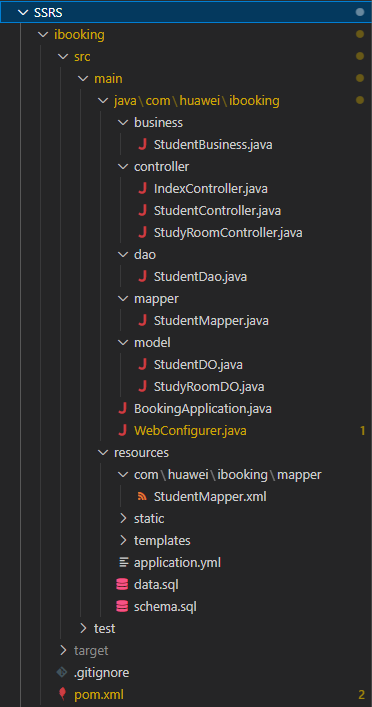
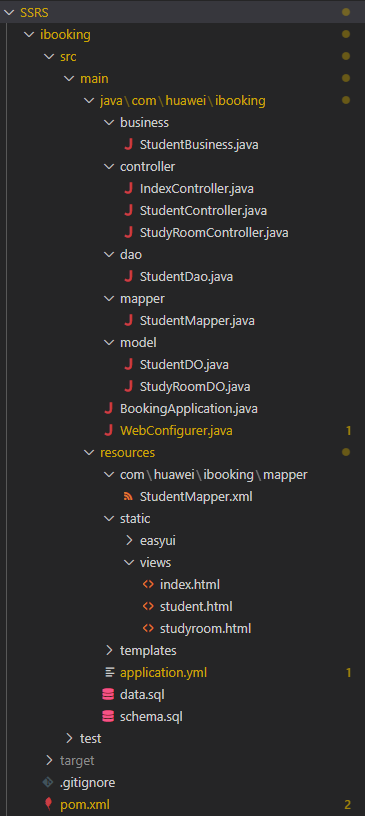
“添加内容”

Changed region(s): [[0.0, 0.0, 1.0, 1.0], [0.9342, 0.529, 0.9644, 0.5601]]

diff --git a/ibooking/src/main/resources/static/views/student.html b/ibooking/src/main/resources/static/views/student.html
@@ -36,8 +36,7 @@
             plain="true">添加</a>
         <a class="easyui-linkbutton" href="javascript:void(0)" iconCls="icon-edit" onclick="editStudent()"
             plain="true">修改</a>
-        <a class="easyui-linkbutton" href="javascript:void(0)" iconCls="icon-remove"
-            onclick="destroyStudent()"
+        <a class="easyui-linkbutton" href="javascript:void(0)" iconCls="icon-remove" onclick="destroyStudent()"
             plain="true">删除</a>
     </div>
 

diff --git a/README.md b/README.md
@@ -13,11 +13,11 @@
 
 &emsp;&emsp;&emsp;&emsp;&emsp;&emsp;|-com\huawei\ibooking
 
-&emsp;&emsp;&emsp;&emsp;&emsp;&emsp;&emsp;&emsp;|-business
+&emsp;&emsp;&emsp;&emsp;&emsp;&emsp;&emsp;&emsp;|-business  // 具体的业务逻辑代码（接口和实现分离）
 
 &emsp;&emsp;&emsp;&emsp;&emsp;&emsp;&emsp;&emsp;&emsp;&emsp;*|-StudentBusiness.java*
 
-&emsp;&emsp;&emsp;&emsp;&emsp;&emsp;&emsp;&emsp;|-controller
+&emsp;&emsp;&emsp;&emsp;&emsp;&emsp;&emsp;&emsp;|-controller  // 控制器代码
 
 &emsp;&emsp;&emsp;&emsp;&emsp;&emsp;&emsp;&emsp;&emsp;&emsp;*|-IndexController.java*
 
@@ -25,37 +25,47 @@
 
 &emsp;&emsp;&emsp;&emsp;&emsp;&emsp;&emsp;&emsp;&emsp;&emsp;*|-StudyRoomController.java*
 
-&emsp;&emsp;&emsp;&emsp;&emsp;&emsp;&emsp;&emsp;|-dao
+&emsp;&emsp;&emsp;&emsp;&emsp;&emsp;&emsp;&emsp;|-dao  // 数据访问层，封装了对数据库的操作
 
 &emsp;&emsp;&emsp;&emsp;&emsp;&emsp;&emsp;&emsp;&emsp;&emsp;*|-StudentDao.java*
 
-&emsp;&emsp;&emsp;&emsp;&emsp;&emsp;&emsp;&emsp;|-mapper
+&emsp;&emsp;&emsp;&emsp;&emsp;&emsp;&emsp;&emsp;|-mapper  // 数据访问层代码接口
 
 &emsp;&emsp;&emsp;&emsp;&emsp;&emsp;&emsp;&emsp;&emsp;&emsp;*|-StudentMapper.java*
 
-&emsp;&emsp;&emsp;&emsp;&emsp;&emsp;&emsp;&emsp;|-model
+&emsp;&emsp;&emsp;&emsp;&emsp;&emsp;&emsp;&emsp;|-model  // 数据模型代码
 
 &emsp;&emsp;&emsp;&emsp;&emsp;&emsp;&emsp;&emsp;&emsp;&emsp;*|-StudentDO.java*
 
 &emsp;&emsp;&emsp;&emsp;&emsp;&emsp;&emsp;&emsp;&emsp;&emsp;*|-StudyRoomDO.java*
 
-&emsp;&emsp;&emsp;&emsp;&emsp;&emsp;&emsp;&emsp;*|-BookingApplication.java*
+&emsp;&emsp;&emsp;&emsp;&emsp;&emsp;&emsp;&emsp;*|-BookingApplication.java*  // Spring Boot应用程序的入口，项目的启动程序
 
-&emsp;&emsp;&emsp;&emsp;&emsp;&emsp;&emsp;&emsp;*|-WebConfigurer.java*
+&emsp;&emsp;&emsp;&emsp;&emsp;&emsp;&emsp;&emsp;*|-WebConfigurer.java*  // Spring Boot配置类 
 
-&emsp;&emsp;&emsp;&emsp;|-resources // 资源文件目录
+&emsp;&emsp;&emsp;&emsp;|-resources // 资源文件目录，存放静态配置文件和页面静态资源
 
-&emsp;&emsp;&emsp;&emsp;&emsp;&emsp;|-com\huawei\ibooking\mapper
+&emsp;&emsp;&emsp;&emsp;&emsp;&emsp;|-com\huawei\ibooking\mapper  // XML映射文件
 
 &emsp;&emsp;&emsp;&emsp;&emsp;&emsp;&emsp;&emsp;|-*StudentMapper.xml*
 
-&emsp;&emsp;&emsp;&emsp;&emsp;&emsp;|-static
+&emsp;&emsp;&emsp;&emsp;&emsp;&emsp;|-static  // 存放网页静态资源
+
+&emsp;&emsp;&emsp;&emsp;&emsp;&emsp;&emsp;&emsp;|-easyui
+
+&emsp;&emsp;&emsp;&emsp;&emsp;&emsp;&emsp;&emsp;|-views  // html页面
+
+&emsp;&emsp;&emsp;&emsp;&emsp;&emsp;&emsp;&emsp;&emsp;&emsp;|-*index.html*
+
+&emsp;&emsp;&emsp;&emsp;&emsp;&emsp;&emsp;&emsp;&emsp;&emsp;|-*student.html*
+
+&emsp;&emsp;&emsp;&emsp;&emsp;&emsp;&emsp;&emsp;&emsp;&emsp;|-*studyroom.html*
 
 &emsp;&emsp;&emsp;&emsp;&emsp;&emsp;|-templates
 
-&emsp;&emsp;&emsp;&emsp;&emsp;&emsp;*|-application.yml*
+&emsp;&emsp;&emsp;&emsp;&emsp;&emsp;*|-application.yml*  // 基本配置文件
 
-&emsp;&emsp;&emsp;&emsp;&emsp;&emsp;*|-data.sql*
+&emsp;&emsp;&emsp;&emsp;&emsp;&emsp;*|-data.sql*  // 数据文件
 
 &emsp;&emsp;&emsp;&emsp;&emsp;&emsp;*|-schema.sql*
 
